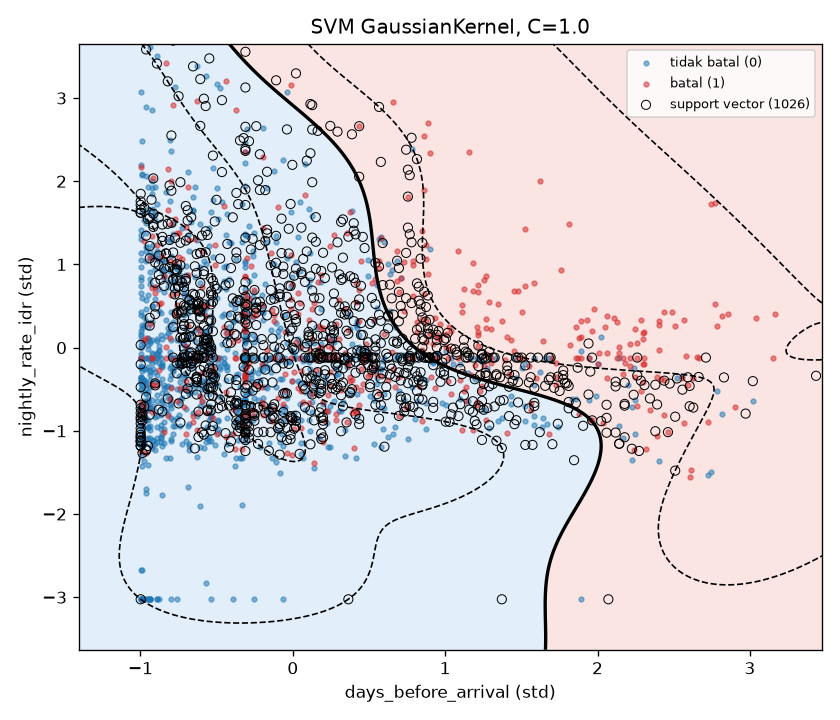
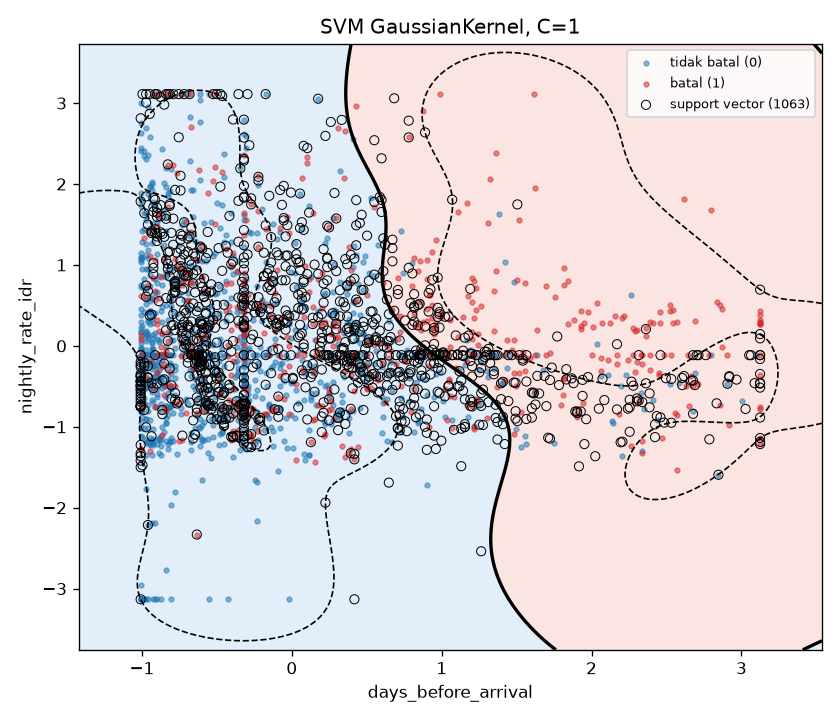
feat: tambah sel SVM, perbandingan SVC, dan plot bonus 4 di notebook

diff --git a/src/svm.py b/src/svm.py
@@ -156,9 +156,7 @@ class SVM:
 
     def plot_decision_boundary(self, X, y, path, feature_names=("x1", "x2"), title=None, max_points=1500):
         """[BONUS 4] Bidang pemisah f(x)=0, margin f(x)=±1, dan support vector. Model harus dilatih pada 2 fitur."""
-        import matplotlib
-        matplotlib.use("Agg")
-        import matplotlib.pyplot as plt
+        import matplotlib.pyplot as plt  # tanpa matplotlib.use("Agg"): itu mematikan plot inline di notebook
 
         X, y = np.asarray(X, dtype=float), np.asarray(y).astype(int)
         if X.shape[1] != 2 or self.support_vectors_.shape[1] != 2:
